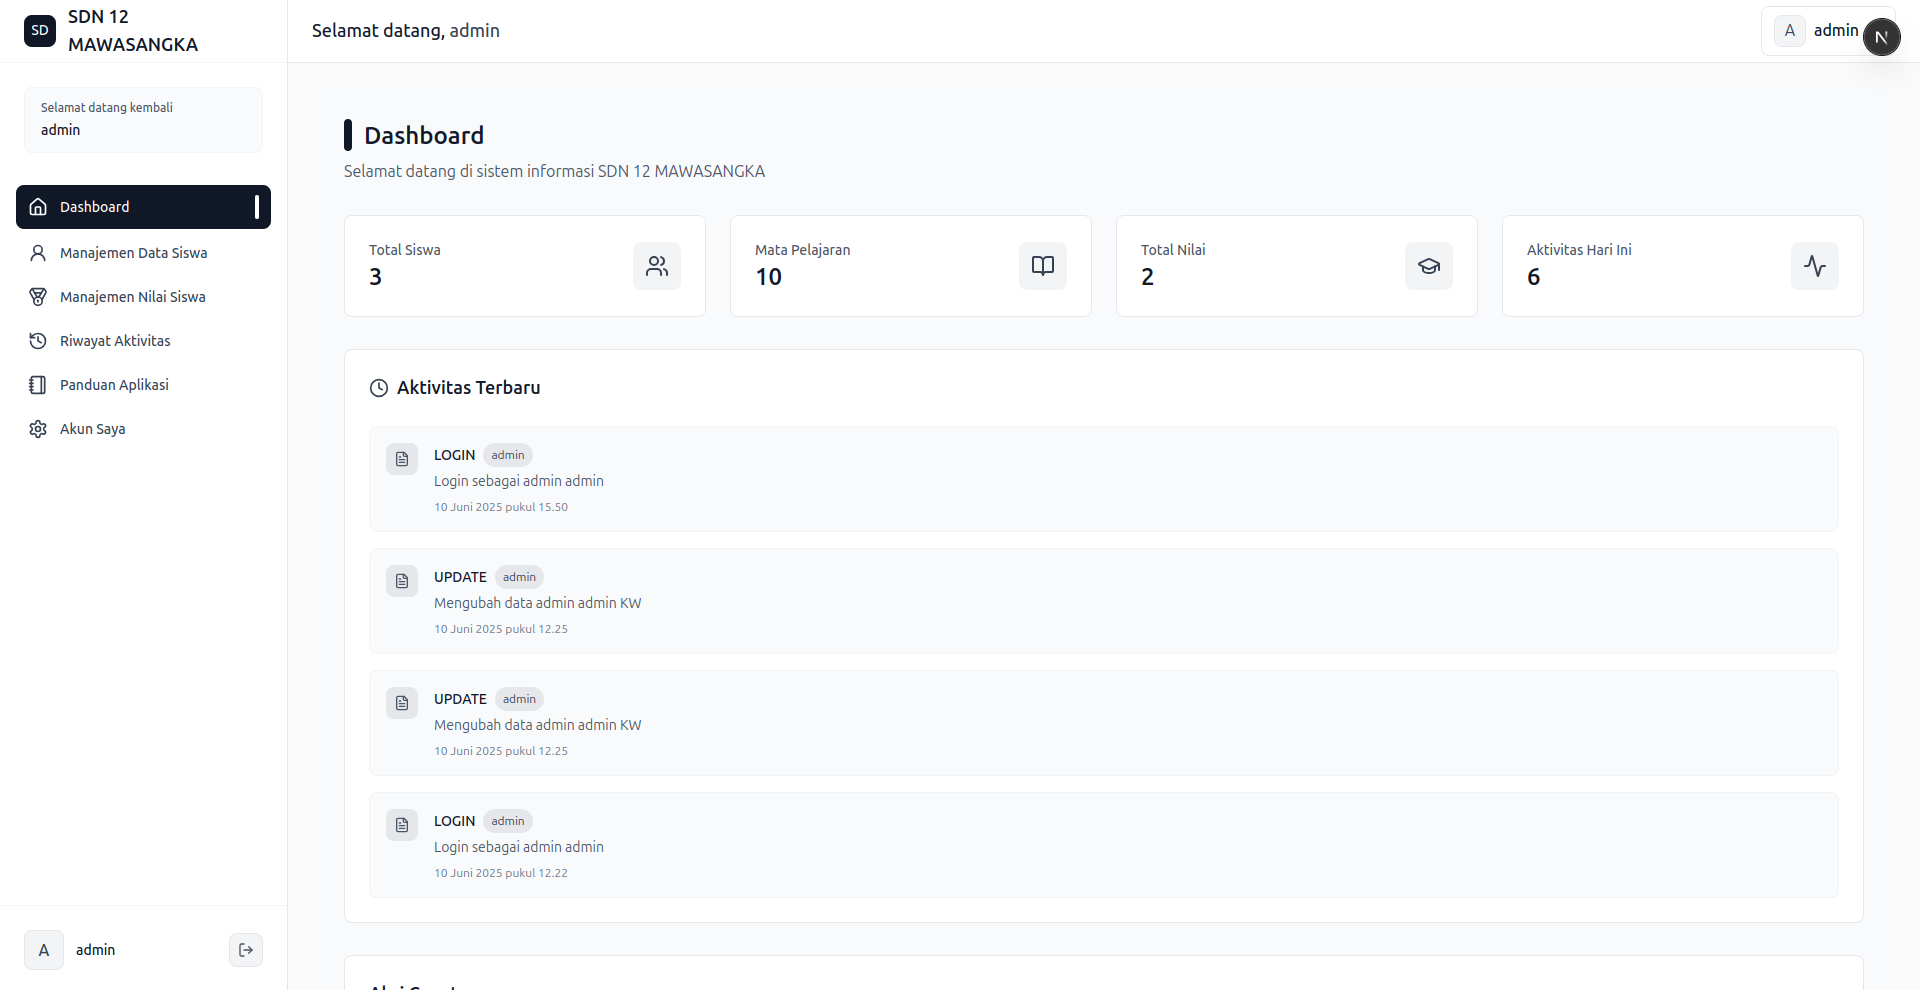
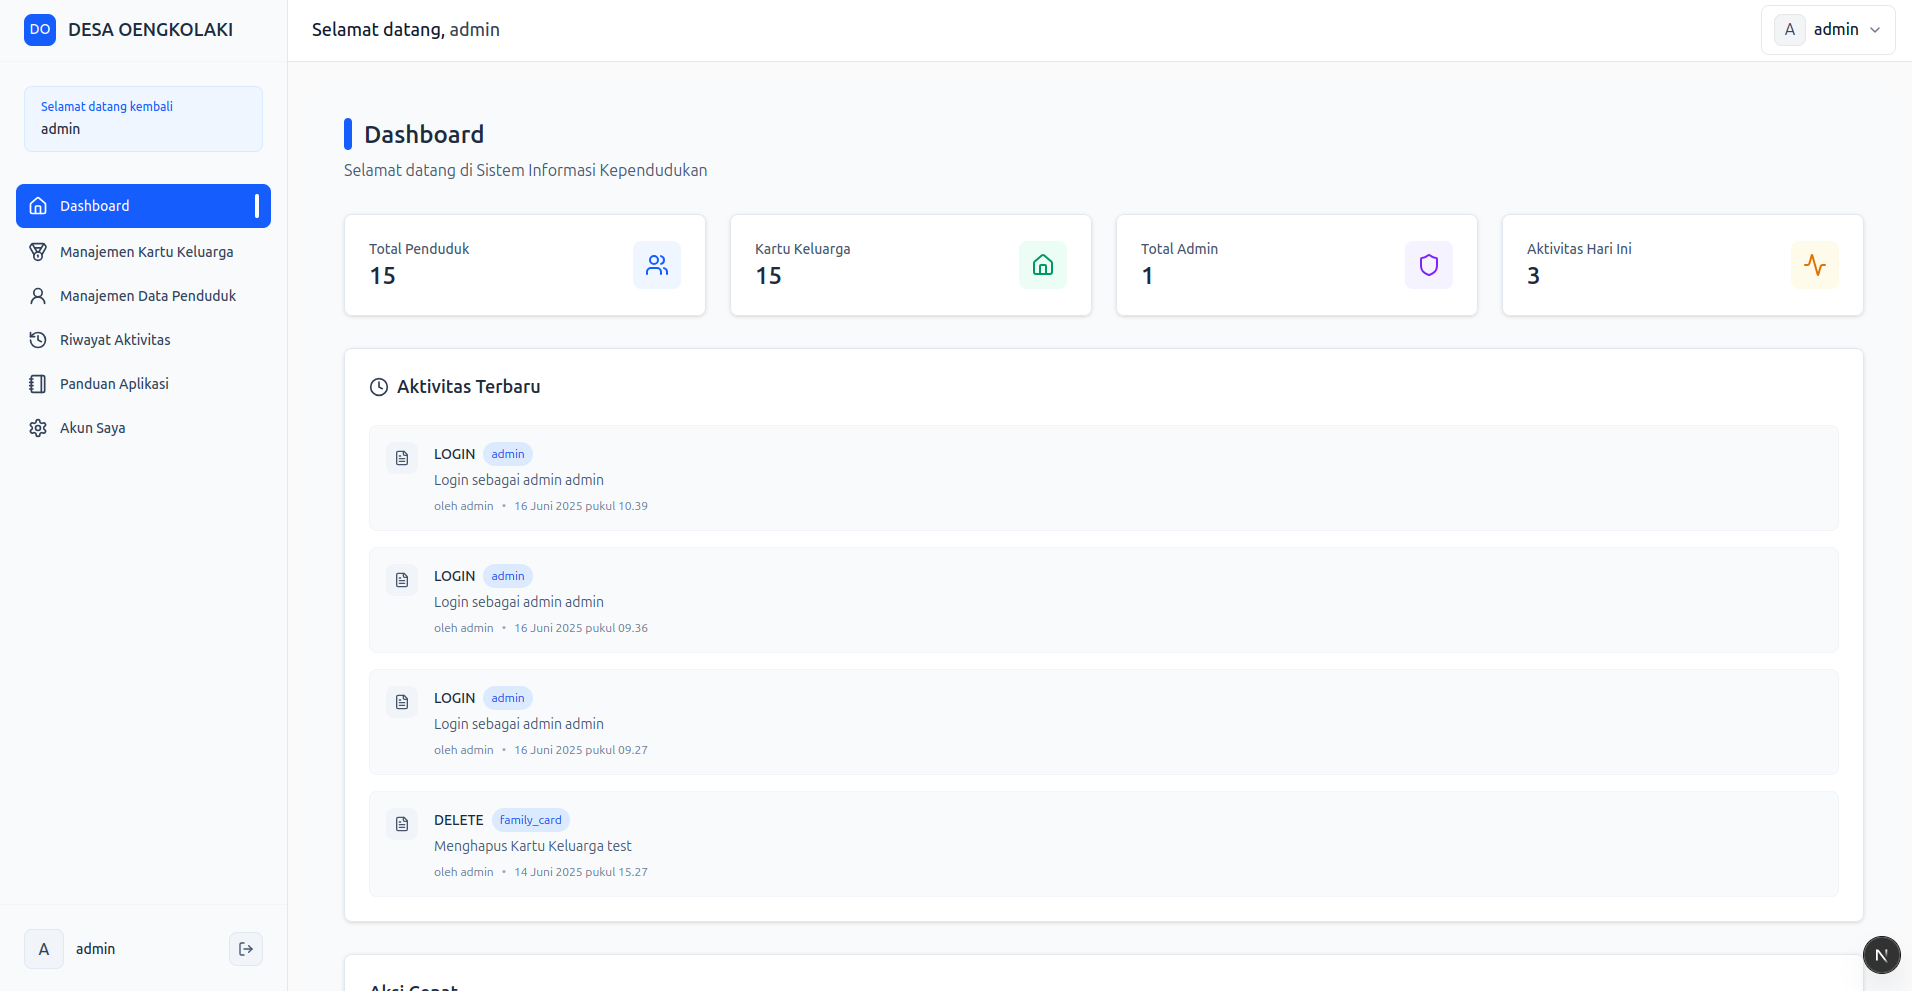
Refactor styles for error messages and buttons; update login form layout and error handling

diff --git a/src/app/tutorials/_components/tutorial.tsx b/src/app/tutorials/_components/tutorial.tsx
@@ -70,85 +70,74 @@ export const Tutorial = () => {
       ],
     },
     {
-      id: "students",
-      title: "Manajemen Data Siswa",
+      id: "familyCard",
+      title: "Manajemen Data Kartu Keluarga",
       icon: <Users className="w-5 h-5" />,
       steps: [
         {
-          title: "Akses Menu Siswa",
+          title: "Akses Menu Kartu Keluarga",
           description:
-            'Pilih menu "Manajemen Data Siswa" di sidebar pada sisi kiri untuk mengakses data siswa',
+            'Pilih menu "Manajemen Data Kartu Keluarga" di sidebar pada sisi kiri untuk mengakses data kartu keluarga',
         },
         {
           title: "Mode Enkripsi",
           description:
             "Data ditampilkan dalam bentuk enkripsi untuk keamanan. Klik tombol dekripsi untuk melihat data asli",
-          image: "/image/student-encrypt.png",
+          image: "/image/family-card-encrypt.png",
         },
         {
           title: "Dekripsi Data",
           description:
-            "Setelah mengklik tombol dekripsi, data siswa akan ditampilkan dalam format yang dapat dibaca",
-          image: "/image/decrypt-student.png",
+            "Setelah mengklik tombol dekripsi, data kartu keluarga akan ditampilkan dalam format yang dapat dibaca",
+          image: "/image/family-card-decrypt.png",
         },
         {
-          title: "Tambah Data Siswa",
+          title: "Tambah Data Kartu Keluarga",
           description:
-            'Klik tombol "Tambah Siswa" untuk menambahkan data siswa baru dengan mengisi form yang tersedia',
-          image: "/image/add-student.png",
+            'Klik tombol "Tambah Kartu Keluarga" untuk menambahkan data kartu keluarga baru dengan mengisi form yang tersedia',
+          image: "/image/add-family-card.png",
         },
         {
-          title: "Update Data Siswa",
+          title: "Update Data Kartu Keluarga",
           description:
             "Aktifkan mode dekripsi terlebih dahulu, kemudian form untuk memperbarui data siswa akan muncul",
-          image: "/image/update-student.png",
-        },
-        {
-          title: "Export ke Excel",
-          description:
-            'Gunakan tombol "Export to Excel" untuk mengunduh data siswa. Tombol ini aktif saat mode dekripsi',
-        },
-        {
-          title: "Detail Data Siswa",
-          description:
-            'Klik tombol "Detail" untuk melihat informasi lengkap dari data siswa yang dipilih',
-          image: "/image/detail-student.png",
+          image: "/image/update-family-card.png",
         },
       ],
     },
     {
-      id: "scores",
-      title: "Manajemen Nilai Siswa",
+      id: "resident",
+      title: "Manajemen Data Penduduk",
       icon: <Award className="w-5 h-5" />,
       steps: [
         {
-          title: "Akses Menu Nilai",
+          title: "Akses Menu Penduduk",
           description:
-            'Pilih menu "Manajemen Nilai Siswa" di sidebar pada sisi kiri untuk mengakses data nilai',
+            'Pilih menu "Manajemen Data Penduduk" di sidebar pada sisi kiri untuk mengakses data penduduk',
         },
         {
-          title: "Mode Enkripsi Nilai",
+          title: "Mode Enkripsi Data Penduduk",
           description:
             "Data nilai ditampilkan dalam bentuk enkripsi. Klik tombol dekripsi untuk melihat data asli",
-          image: "/image/encrypt-score.png",
+          image: "/image/resident-encrypt.png",
         },
         {
-          title: "Dekripsi Data Nilai",
+          title: "Dekripsi Data Penduduk",
           description:
-            "Setelah dekripsi, data nilai siswa akan ditampilkan dalam format yang dapat dibaca",
-          image: "/image/decrypt-score.png",
+            "Setelah dekripsi, data penduduk akan ditampilkan dalam format yang dapat dibaca",
+          image: "/image/resident-decrypt.png",
         },
         {
-          title: "Tambah Data Nilai",
+          title: "Tambah Data Penduduk",
           description:
-            'Klik tombol "Tambah Nilai" untuk menambahkan data nilai baru dengan mengisi form yang benar',
-          image: "/image/add-score.png",
+            'Klik tombol "Tambah Penduduk" untuk menambahkan data penduduk baru dengan mengisi form yang benar',
+          image: "/image/add-resident.png",
         },
         {
-          title: "Update Data Nilai",
+          title: "Update Data Penduduk",
           description:
-            "Aktifkan mode dekripsi, kemudian form untuk memperbarui data nilai akan tersedia",
-          image: "/image/update-score.png",
+            "Aktifkan mode dekripsi, kemudian form untuk memperbarui data penduduk akan tersedia",
+          image: "/image/update-resident.png",
         },
         {
           title: "Export Nilai ke Excel",
@@ -200,15 +189,15 @@ export const Tutorial = () => {
       <div className="bg-white border-b border-gray-200">
         <div className="mx-auto px-6 py-4">
           <div className="flex items-center gap-3">
-            <div className="w-8 h-8 bg-gray-900 rounded-lg flex items-center justify-center">
-              <span className="text-white text-sm font-medium">SD</span>
+            <div className="w-8 h-8 bg-blue-600 rounded-lg flex items-center justify-center">
+              <span className="text-white text-sm font-medium">DO</span>
             </div>
             <div>
               <h1 className="text-2xl font-semibold text-gray-900">
                 Panduan Aplikasi
               </h1>
               <p className="text-gray-600 text-sm">
-                SDN 12 MAWASANGKA - Sistem Manajemen Data
+                DESA OENGKOLAKI - Sistem Manajemen Data
               </p>
             </div>
           </div>
@@ -261,7 +250,7 @@ export const Tutorial = () => {
                     >
                       <div className="flex gap-6">
                         <div className="flex-shrink-0">
-                          <div className="w-8 h-8 bg-gray-900 text-white rounded-full flex items-center justify-center text-sm font-medium">
+                          <div className="w-8 h-8 bg-blue-600 text-white rounded-full flex items-center justify-center text-sm font-medium">
                             {stepIndex + 1}
                           </div>
                         </div>

diff --git a/src/app/login/_components/login-form.tsx b/src/app/login/_components/login-form.tsx
@@ -4,6 +4,7 @@ import React, { useActionState, useState } from "react";
 import { Eye, EyeOff } from "lucide-react";
 import { login } from "@/actions/admin";
 import { LoginButton } from "./submit-button";
+import { ErrorMessage } from "@/app/_components/error-message";
 
 export const LoginForm = () => {
   const [showPassword, setShowPassword] = useState(false);
@@ -12,40 +13,40 @@ export const LoginForm = () => {
   });
 
   return (
-    <div className="bg-white rounded-lg shadow-sm border border-gray-100">
-      <div className="px-8 py-6 border-b border-gray-50">
+    <div className="bg-white rounded-lg shadow-sm border border-slate-200">
+      <div className="px-8 py-6 border-b border-slate-100">
         <div className="flex justify-center">
           <div className="flex items-center gap-3">
-            <div className="w-8 h-8 bg-gray-900 rounded-md flex items-center justify-center">
-              <span className="text-white text-sm font-medium">IN</span>
+            <div className="w-8 h-8 bg-blue-600 rounded-lg flex items-center justify-center">
+              <span className="text-white text-sm font-medium">DO</span>
             </div>
-            <h1 className="text-lg font-medium text-gray-900">Logo</h1>
+            <h1 className="text-lg font-semibold text-slate-800">
+              DESA OENGKOLAKI
+            </h1>
           </div>
         </div>
       </div>
 
       <div className="px-8 py-8">
-        <div className="mb-8 text-center">
-          <h2 className="text-2xl font-semibold text-gray-900 mb-2">
-            Selamat Datang Kembali
-          </h2>
-          <p className="text-gray-600 text-sm">
-            Masuk ke akun Anda untuk melanjutkan
-          </p>
+        <div className="mb-8">
+          <div className="py-3 px-4 bg-blue-50 rounded-lg border border-blue-100 mb-6">
+            <p className="text-xs font-medium text-blue-600 text-center">
+              Selamat datang di sistem
+            </p>
+            <p className="text-sm text-slate-800 mt-1 font-medium text-center">
+              Masuk ke akun Anda untuk melanjutkan
+            </p>
+          </div>
         </div>
 
-        {state.error && (
-          <div className="mb-6 p-4 bg-red-50 text-red-600 text-sm rounded-md border border-red-100">
-            {state.error}
-          </div>
-        )}
+        {state.error && <ErrorMessage message={state.error} />}
 
         <form action={action}>
           <div className="space-y-6">
             <div>
               <label
                 htmlFor="username"
-                className="block text-sm font-medium text-gray-700 mb-2"
+                className="block text-sm font-medium text-slate-700 mb-2"
               >
                 Username
               </label>
@@ -53,20 +54,22 @@ export const LoginForm = () => {
                 id="username"
                 type="text"
                 name="username"
-                className="w-full px-4 py-3 rounded-md 
-                  border border-gray-200
-                  bg-white text-gray-900
-                  focus:outline-none focus:ring-2 focus:ring-gray-900 focus:border-transparent
-                  hover:border-gray-300
-                  transition-colors duration-200"
+                className="w-full px-4 py-3 rounded-lg 
+                  border border-slate-200
+                  bg-white text-slate-800
+                  focus:outline-none focus:ring-2 focus:ring-blue-600 focus:border-transparent
+                  hover:border-slate-300
+                  transition-colors duration-200
+                  placeholder:text-slate-400"
                 placeholder="Masukkan username"
               />
             </div>
 
+            {/* Password Field */}
             <div>
               <label
                 htmlFor="password"
-                className="block text-sm font-medium text-gray-700 mb-2"
+                className="block text-sm font-medium text-slate-700 mb-2"
               >
                 Password
               </label>
@@ -75,18 +78,20 @@ export const LoginForm = () => {
                   id="password"
                   name="password"
                   type={showPassword ? "text" : "password"}
-                  className="w-full px-4 py-3 rounded-md 
-                    border border-gray-200
-                    bg-white text-gray-900
-                    focus:outline-none focus:ring-2 focus:ring-gray-900 focus:border-transparent
-                    hover:border-gray-300
-                    transition-colors duration-200"
+                  className="w-full px-4 py-3 rounded-lg 
+                    border border-slate-200
+                    bg-white text-slate-800
+                    focus:outline-none focus:ring-2 focus:ring-blue-600 focus:border-transparent
+                    hover:border-slate-300
+                    transition-colors duration-200
+                    placeholder:text-slate-400"
                   placeholder="Masukkan password"
                 />
                 <button
                   type="button"
                   className="absolute right-3 top-1/2 transform -translate-y-1/2 
-                    text-gray-400 hover:text-gray-600
+                    p-1 rounded-md
+                    text-slate-400 hover:text-slate-600 hover:bg-slate-100
                     transition-colors duration-200"
                   onClick={() => setShowPassword(!showPassword)}
                 >

diff --git a/src/app/login/_components/submit-button.tsx b/src/app/login/_components/submit-button.tsx
@@ -9,11 +9,13 @@ export const LoginButton = () => {
     <button
       type="submit"
       disabled={pending}
-      className="w-full flex items-center justify-center gap-x-2 bg-gray-900 hover:bg-gray-800 text-white font-medium py-3 px-4
-        rounded-md border border-gray-200
-        focus:outline-none focus:ring-2 focus:ring-gray-900 focus:ring-offset-2
-        transition-colors duration-200 disabled:opacity-50 disabled:cursor-not-allowed
-        disabled:hover:bg-gray-900"
+      className="w-full flex items-center justify-center gap-3 
+        bg-blue-600 hover:bg-blue-700 disabled:bg-blue-600
+        text-white font-medium py-3 px-4
+        rounded-lg border border-blue-600
+        focus:outline-none focus:ring-2 focus:ring-blue-600 focus:ring-offset-2
+        transition-colors duration-200 
+        disabled:opacity-50 disabled:cursor-not-allowed"
     >
       {pending ? (
         <>
@@ -30,12 +32,12 @@ export const LoginButton = () => {
               r="10"
               stroke="currentColor"
               strokeWidth="4"
-            ></circle>
+            />
             <path
               className="opacity-75"
               fill="currentColor"
               d="M4 12a8 8 0 018-8V0C5.373 0 0 5.373 0 12h4zm2 5.291A7.962 7.962 0 014 12H0c0 3.042 1.135 5.824 3 7.938l3-2.647z"
-            ></path>
+            />
           </svg>
           <span>Memproses...</span>
         </>

diff --git a/src/app/family-cards/_components/submit-button.tsx b/src/app/family-cards/_components/submit-button.tsx
@@ -11,7 +11,7 @@ export const SubmitButton = ({ modalMode }: Props) => {
   return (
     <button
       type="submit"
-      className="w-full sm:w-auto px-6 py-2.5 bg-gray-900 text-white text-sm font-medium rounded-lg hover:bg-gray-800 focus:outline-none focus:ring-2 focus:ring-gray-900 focus:ring-offset-2 disabled:opacity-50 disabled:cursor-not-allowed transition-colors duration-150"
+      className="w-full sm:w-auto px-6 py-2.5 bg-blue-600 text-white text-sm font-medium rounded-lg hover:bg-blue-800 focus:outline-none focus:ring-2 focus:ring-blue-900 focus:ring-offset-2 disabled:opacity-50 disabled:cursor-not-allowed transition-colors duration-150"
       disabled={pending}
     >
       {pending

diff --git a/src/app/residents/_components/submit-button.tsx b/src/app/residents/_components/submit-button.tsx
@@ -11,7 +11,7 @@ export const SubmitButton = ({ modalMode }: Props) => {
   return (
     <button
       type="submit"
-      className="w-full sm:w-auto px-6 py-2.5 bg-gray-900 text-white text-sm font-medium rounded-lg hover:bg-gray-800 focus:outline-none focus:ring-2 focus:ring-gray-900 focus:ring-offset-2 disabled:opacity-50 disabled:cursor-not-allowed transition-colors duration-150"
+      className="w-full sm:w-auto px-6 py-2.5 bg-blue-900 text-white text-sm font-medium rounded-lg hover:bg-blue-800 focus:outline-none focus:ring-2 focus:ring-blue-900 focus:ring-offset-2 disabled:opacity-50 disabled:cursor-not-allowed transition-colors duration-150"
       disabled={pending}
     >
       {pending

diff --git a/src/app/settings/_components/submit-button.tsx b/src/app/settings/_components/submit-button.tsx
@@ -8,7 +8,7 @@ export const SubmitButton = () => {
     <button
       disabled={pending}
       type="submit"
-      className="flex items-center gap-2 px-6 py-2.5 bg-gray-900 text-white text-sm font-medium rounded-lg hover:bg-gray-800 focus:outline-none focus:ring-2 focus:ring-gray-900 focus:ring-offset-2 disabled:opacity-50 disabled:cursor-not-allowed transition-colors duration-200"
+      className="flex items-center gap-2 px-6 py-2.5 bg-blue-900 text-white text-sm font-medium rounded-lg hover:bg-blue-800 focus:outline-none focus:ring-2 focus:ring-blue-900 focus:ring-offset-2 disabled:opacity-50 disabled:cursor-not-allowed transition-colors duration-200"
     >
       {pending ? (
         <>

diff --git a/src/app/settings/_components/update-profile.tsx b/src/app/settings/_components/update-profile.tsx
@@ -33,7 +33,7 @@ export const AdminProfileUpdate = ({ admin }: Props) => {
     <div className="w-full space-y-6">
       <div className="flex flex-col sm:flex-row justify-between items-start sm:items-center gap-4">
         <div className="flex items-center gap-4">
-          <div className="w-12 h-12 rounded-lg bg-slate-900 flex items-center justify-center shadow-sm">
+          <div className="w-12 h-12 rounded-lg bg-blue-600 flex items-center justify-center shadow-sm">
             <User className="w-6 h-6 text-white" />
           </div>
           <div>

diff --git a/src/app/login/page.tsx b/src/app/login/page.tsx
@@ -2,7 +2,7 @@ import { LoginForm } from "./_components/login-form";
 
 export default async function LoginPage() {
   return (
-    <div className="min-h-screen z-50 fixed w-full top-0 left-0 overflow-hidden flex items-center justify-center bg-neutral-100 p-4">
+    <div className="min-h-screen fixed w-full top-0 left-0 overflow-hidden flex items-center justify-center bg-slate-50 p-4">
       <div className="w-full max-w-md relative z-10">
         <LoginForm />
       </div>

diff --git a/src/app/_components/error-message.tsx b/src/app/_components/error-message.tsx
@@ -7,7 +7,7 @@ interface Props {
 export const ErrorMessage = ({ message }: Props) => {
   if (!message) return null;
   return (
-    <div className="p-4 bg-red-50 border border-red-200 rounded-lg">
+    <div className="mb-6 p-4 bg-red-50 text-red-600 text-sm rounded-lg border border-red-100">
       <div className="flex">
         <div className="flex-shrink-0">
           <svg
